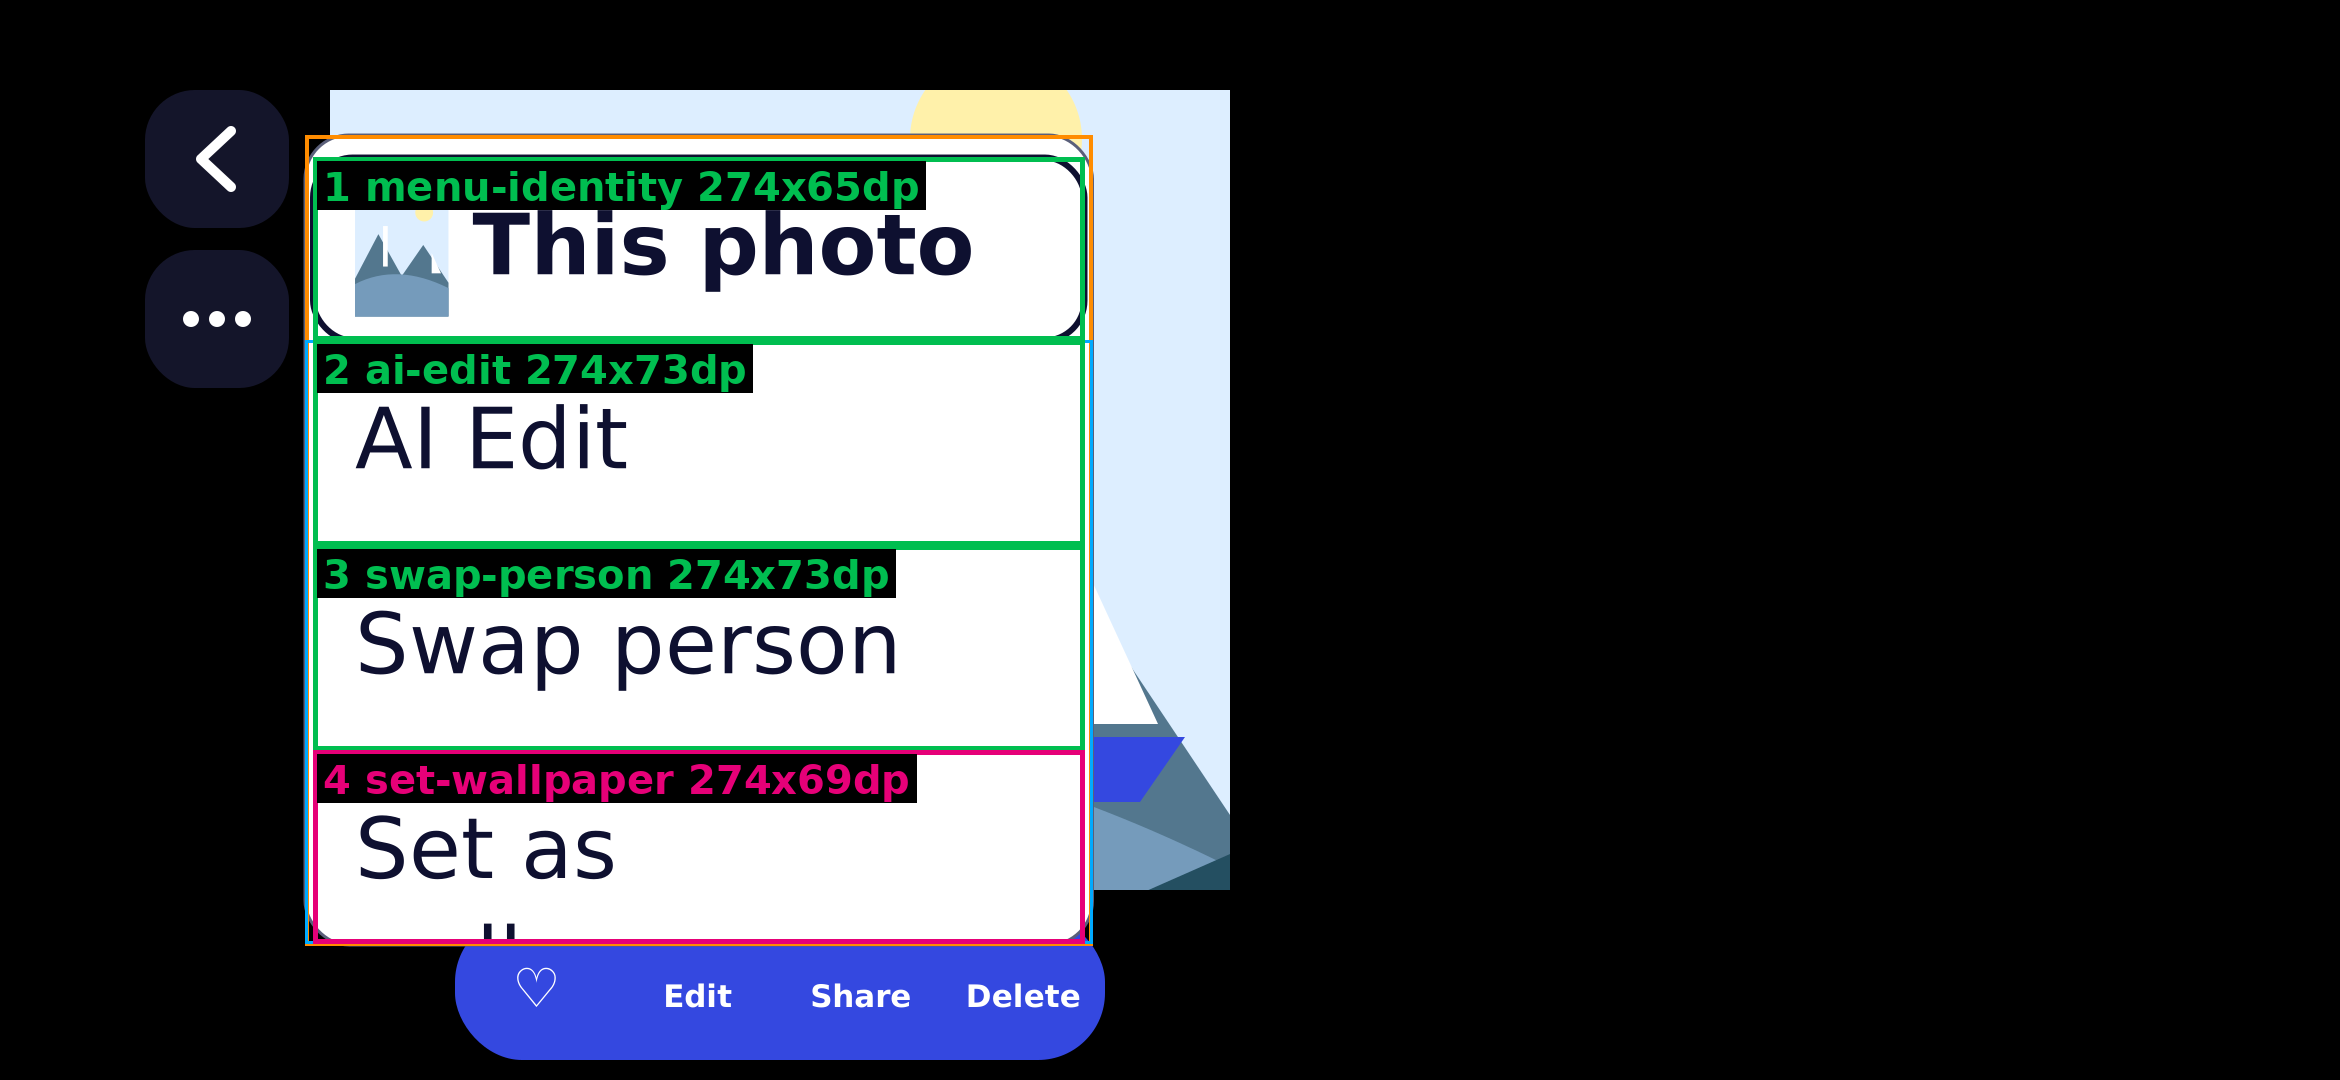
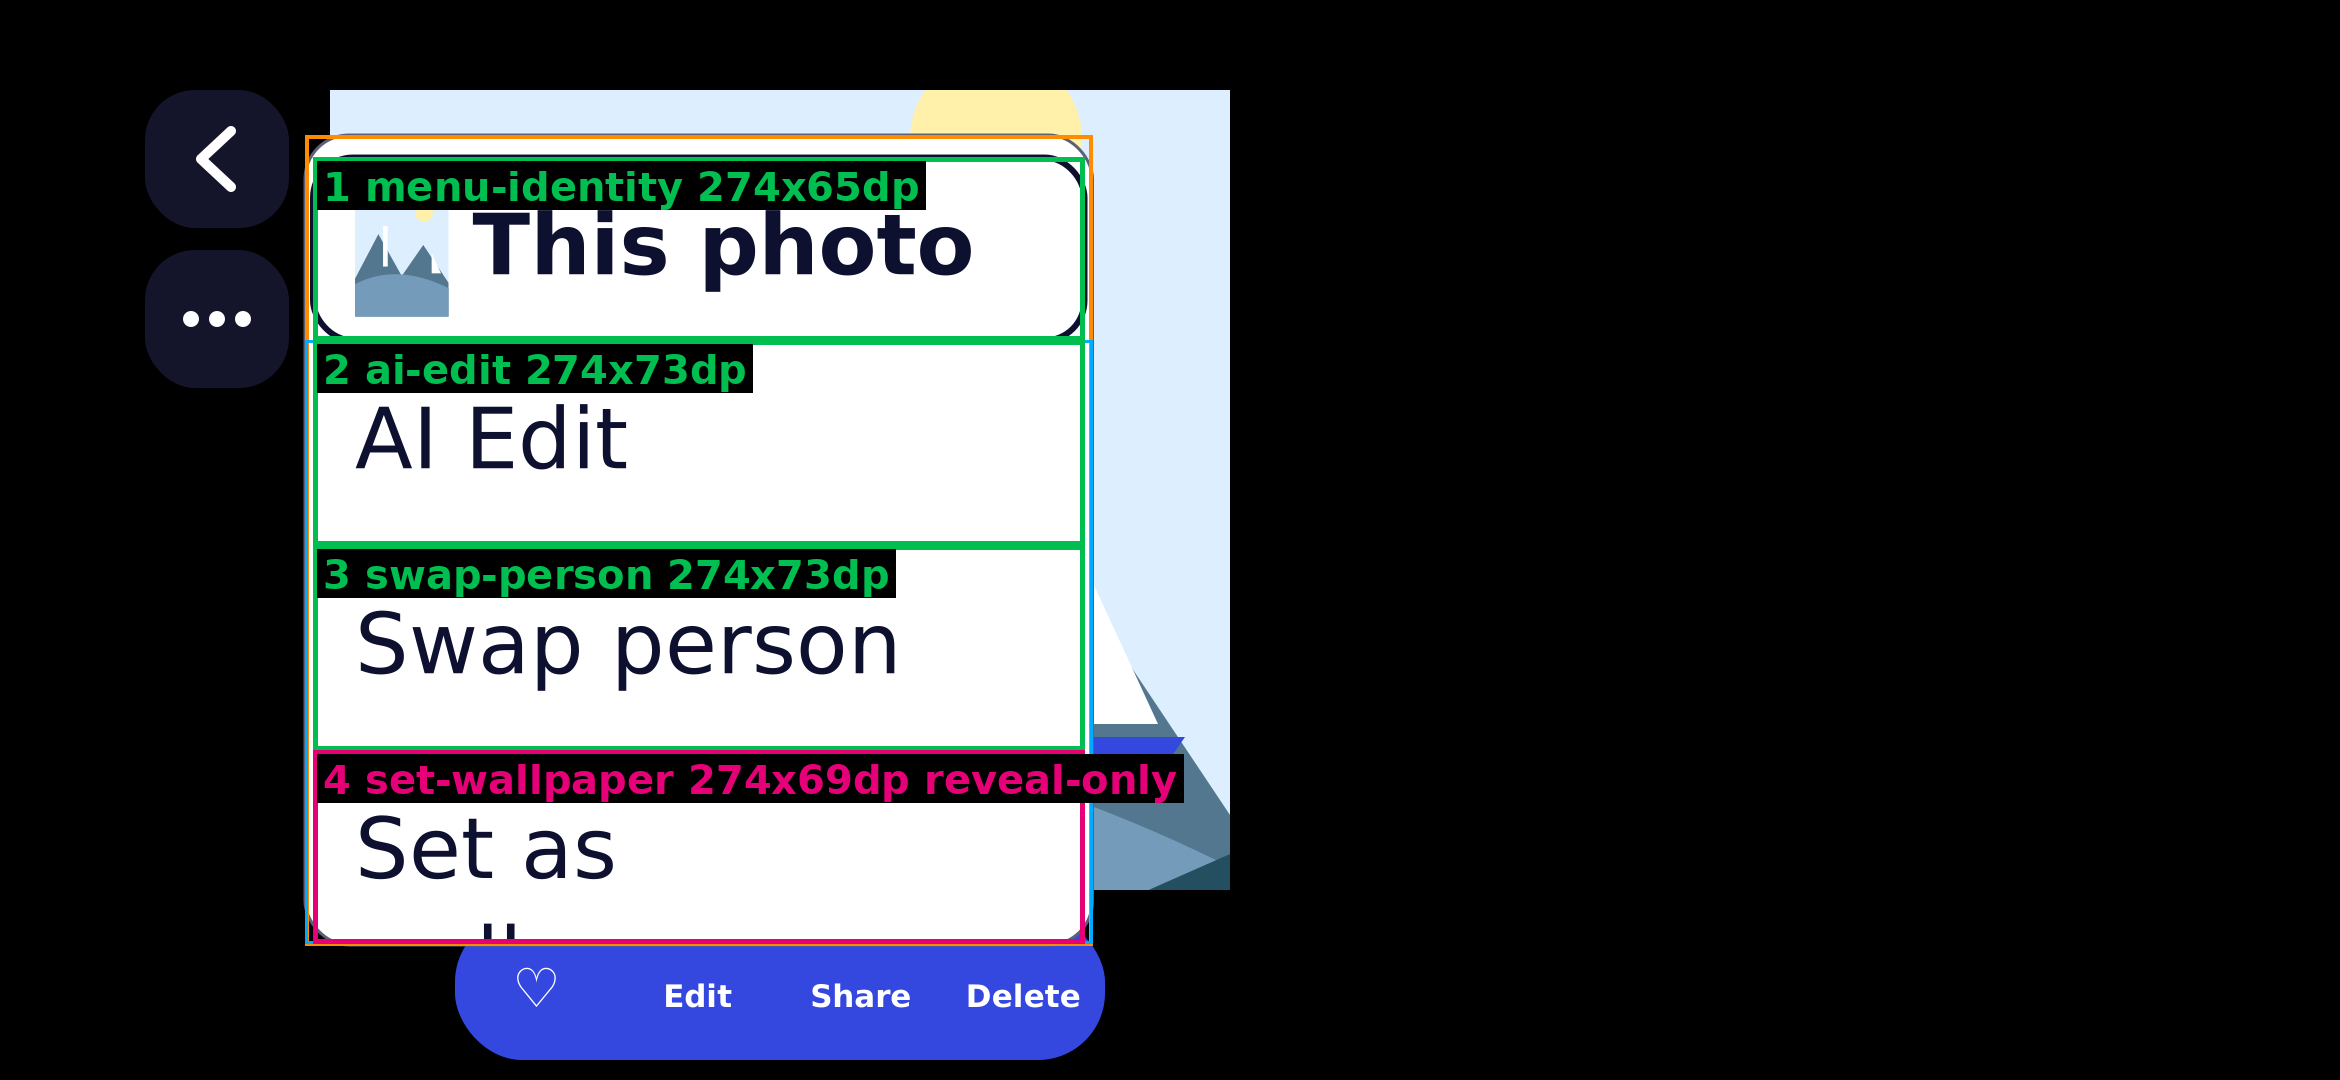
SHARE-1BC-E (#1118): partly shown menu rows are reveal-only scroll cues
Review receipt 7232826011: a clipped 22 dp Swap person sliver was specified as
tappable. Partly shown rows now never activate; a tap or focus scrolls them into
view. geometry.json records activation per row and the verifier fails any
non-full row that activates.

Claude-Session: https://claude.ai/code/session_01JsoPf4vAixFK5ve4VAyi6Y

Changed region(s): [[0.3744, 0.6722, 0.5303, 0.7639]]

diff --git a/docs/design/share-584-bc-target/bc_frames.py b/docs/design/share-584-bc-target/bc_frames.py
@@ -361,13 +361,15 @@ def frame_menu(name, theme, orientation, scale, items, scroll='top', identity=Fa
         fr.scroll = {'container': 'menu rows (identity header pinned)', 'content_px': round(content_h, 1),
                      'viewport_px': r1(viewport), 'offset_px': round(dy, 1), 'position': scroll,
                      'reveal': 'focus or a swipe scrolls the rows; every item can be fully shown; '
-                               'a partly shown row is tappable on its visible part and focus scrolls it '
-                               'fully into view first'}
+                               'a partly shown row is a scroll cue only: a tap or focus scrolls it fully '
+                               'into view and never activates it'}
     for cid, label, origin, lines, ih in rows:
         for i, line in enumerate(lines):
             fr.text(x + ITEM_PAD_X, y + ITEM_PAD_Y + size * 0.95 + i * size * 1.3, line, size, t['ink'],
                     maxw=w - 2 * ITEM_PAD_X)
         vr, extra = _visible([x + 8, y, w - 16, ih], viewport, dy)
+        extra['activation'] = 'activate' if extra.get('visibility') == 'full' else (
+            'reveal-only' if extra.get('visibility') == 'partial' else 'none')
         fr.control(cid, 'menuitem', label, vr, lines=len(lines), **extra)
         y += ih
     if overflow > 0:
@@ -548,6 +550,8 @@ def annotate(g, png_bytes):
         colour = (230, 0, 120) if c.get('visibility') == 'partial' else (0, 190, 80)
         d.rectangle([x, y, x + w, y + h], outline=colour, width=5)
         tag = f'{n} {c["id"]} {w / DENSITY:.0f}x{h / DENSITY:.0f}dp'
+        if c.get('activation') == 'reveal-only':
+            tag += ' reveal-only'
         tw = d.textlength(tag, font=lab)
         d.rectangle([x + 4, y + 4, x + 16 + tw, y + 52], fill=(0, 0, 0))
         d.text((x + 10, y + 6), tag, font=lab, fill=colour)
@@ -657,7 +661,11 @@ def verify_frame(g, svg, png, bg, palette, errors):
             errors.append(f'{name}/{c["id"]}: outside its surface')
         if g['scroll'] and not inside(r, g['scroll']['viewport_px']) and c['id'] != 'ok' and not c.get('pinned'):
             errors.append(f'{name}/{c["id"]}: visible rect outside the scroll viewport')
-        if c['role'] in TAPPABLE and vis == 'full':
+        if c['role'] in TAPPABLE and c.get('activation', 'activate') == 'activate' and vis != 'full':
+            errors.append(f'{name}/{c["id"]}: a {vis} row must not activate its action')
+        if c['role'] in TAPPABLE and vis == 'partial' and c.get('activation') != 'reveal-only':
+            errors.append(f'{name}/{c["id"]}: partly shown row lacks reveal-only activation')
+        if c['role'] in TAPPABLE and c.get('activation', 'activate') == 'activate':
             checks += 2
             if min(r[2], r[3]) < MIN_HIT - 0.01:
                 errors.append(f'{name}/{c["id"]}: {r[2]:.0f}x{r[3]:.0f}px < 48 dp')

diff --git a/docs/design/share-584-bc-target/README.md b/docs/design/share-584-bc-target/README.md
@@ -21,7 +21,7 @@ More is shown whenever at least one item applies (today only when AI Edit applie
 
 **Explicit item identity at large text.** At font scale ≥ 1.5 the larger popup hides most of the photo (20–29 % stays visible), so the menu opens with a non-interactive row: a thumbnail of the current photo and **This photo**, announced as “Actions for *item*”. The row is **pinned**: it sits outside the scrolling rows, so it stays fully visible at every scroll position, including when Set as wallpaper and Copy image are scrolled into view in landscape. A plain `DropdownMenu` scrolls its whole content, so production needs a popup with a fixed header above a scrolling column. At 100 % the photo stays 62–79 % visible and no row is added. The verifier enforces the rule both ways and fails any frame below 40 % photo visibility without a fully visible, pinned identity row.
 
-**Partly shown rows.** While the rows scroll, a row cut by the viewport edge is a scroll cue. Its visible part is still tappable. Keyboard or TalkBack focus scrolls it fully into view before it is activated. The annotated frames mark such rows in pink, and the verifier requires every one to be fully shown in the matching scrolled frame.
+**Partly shown rows are scroll cues, not actions.** While the rows scroll, a row cut by the viewport edge never activates its action: a tap on its visible part or keyboard/TalkBack focus scrolls it fully into view, and only then can it be activated. `geometry.json` marks every menu row `activation: activate` (fully shown, labelled, ≥ 48 dp) or `reveal-only` (partly shown); the verifier fails any partly shown row that activates and checks size, safe insets and non-overlap for every activating row. The annotated frames mark reveal-only rows in pink, and every one is fully shown and activating in the matching scrolled frame.
 
 **Atlas-owned errors, same dialog at any text size.** The title and body form one message that takes focus first (drawn with the focus outline) and is read whole. When it does not fit (landscape, 200 %), the message scrolls with a position bar on its trailing edge while **OK stays pinned** and reachable. OK or system Back returns to the same viewer item. Nothing is changed: no wallpaper, no clipboard write, no file change.
 
@@ -47,7 +47,7 @@ Portrait 1080×2340 and landscape 2340×1080 at 2.8125 px/dp, synthetic safe ins
 | Unsupported / revoked (B) | 100 % [light](png/B-unsupported-light.png) / [dark](png/B-unsupported-dark.png); 200 % [light](png/B-unsupported-light-200.png) / [dark](png/B-unsupported-dark-200.png); 200 % landscape [light](png/B-unsupported-light-200-landscape.png) / [dark](png/B-unsupported-dark-200-landscape.png), scrolled [light](png/B-unsupported-light-200-landscape-scrolled.png) / [dark](png/B-unsupported-dark-200-landscape-scrolled.png) |
 | Revoked (C) | 100 % [light](png/C-revoked-light.png) / [dark](png/C-revoked-dark.png); 200 % [light](png/C-revoked-light-200.png) / [dark](png/C-revoked-dark-200.png); 200 % landscape [light](png/C-revoked-light-200-landscape.png) / [dark](png/C-revoked-dark-200-landscape.png), scrolled [light](png/C-revoked-light-200-landscape-scrolled.png) / [dark](png/C-revoked-dark-200-landscape-scrolled.png) |
 
-**Annotated geometry:** every 200 % frame has a twin in [`annotated/`](annotated/) with each control's semantic rectangle, its focus-order number and its size in dp (green: fully shown; pink: partly shown, scrolls into view on focus), the surface outline (orange) and the scroll viewport (blue). Overlays are a review aid, not part of the design.
+**Annotated geometry:** every 200 % frame has a twin in [`annotated/`](annotated/) with each control's semantic rectangle, its focus-order number and its size in dp (green: fully shown and activating; pink: partly shown, reveal-only), the surface outline (orange) and the scroll viewport (blue). Overlays are a review aid, not part of the design.
 
 ## Geometry, focus and dismissal
 
